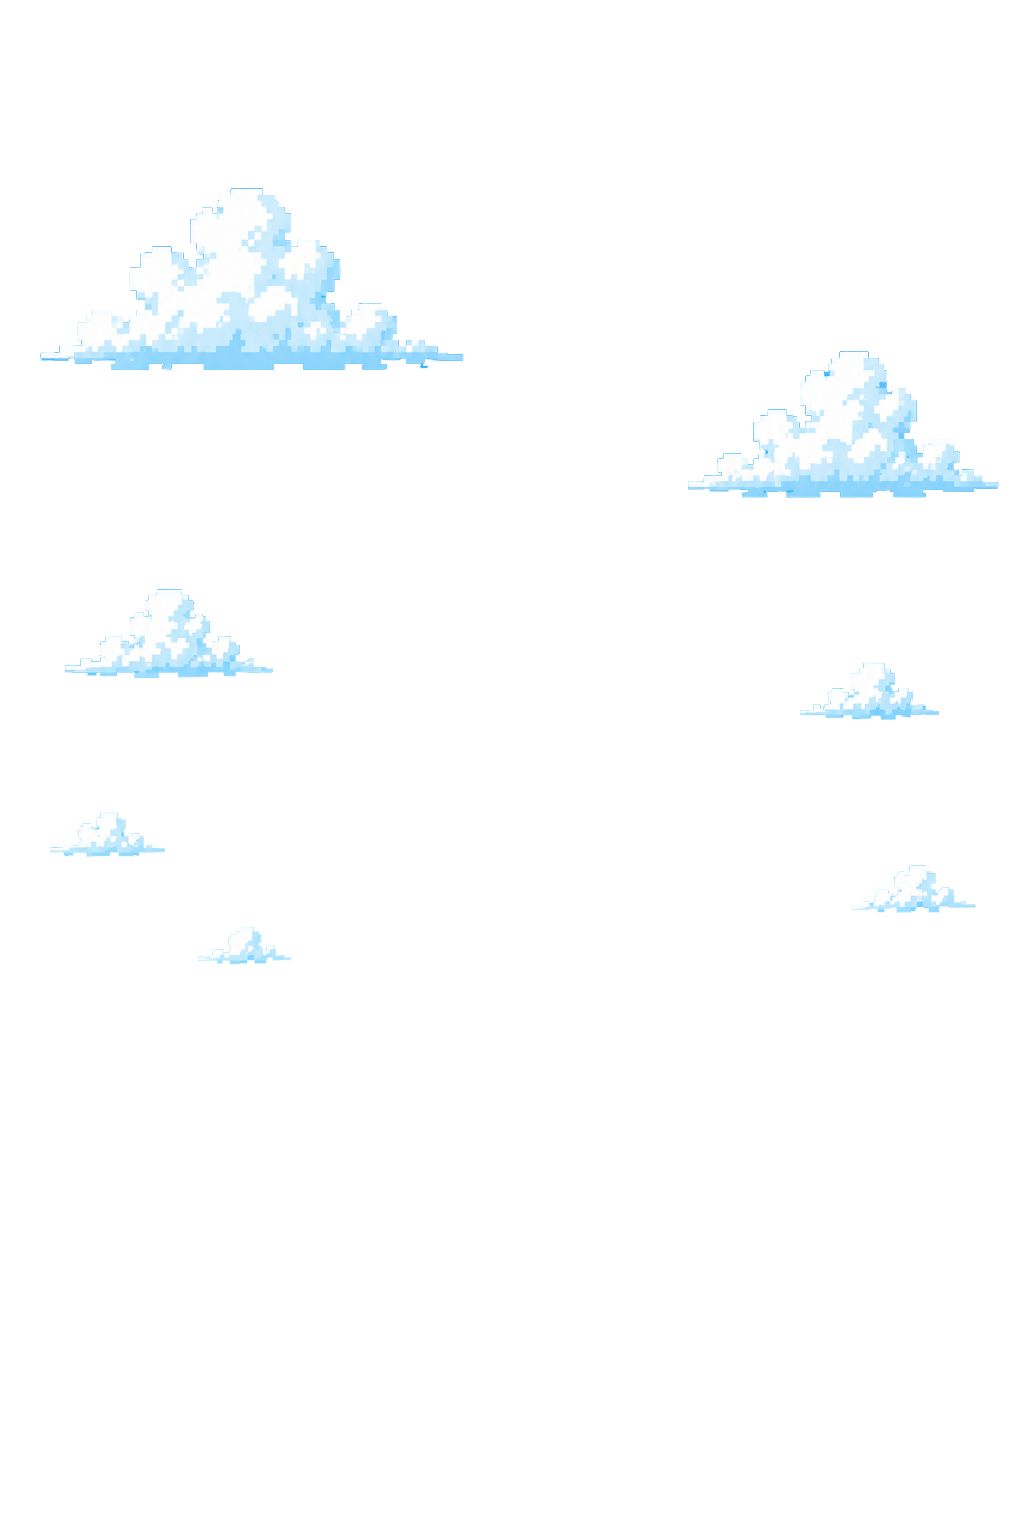
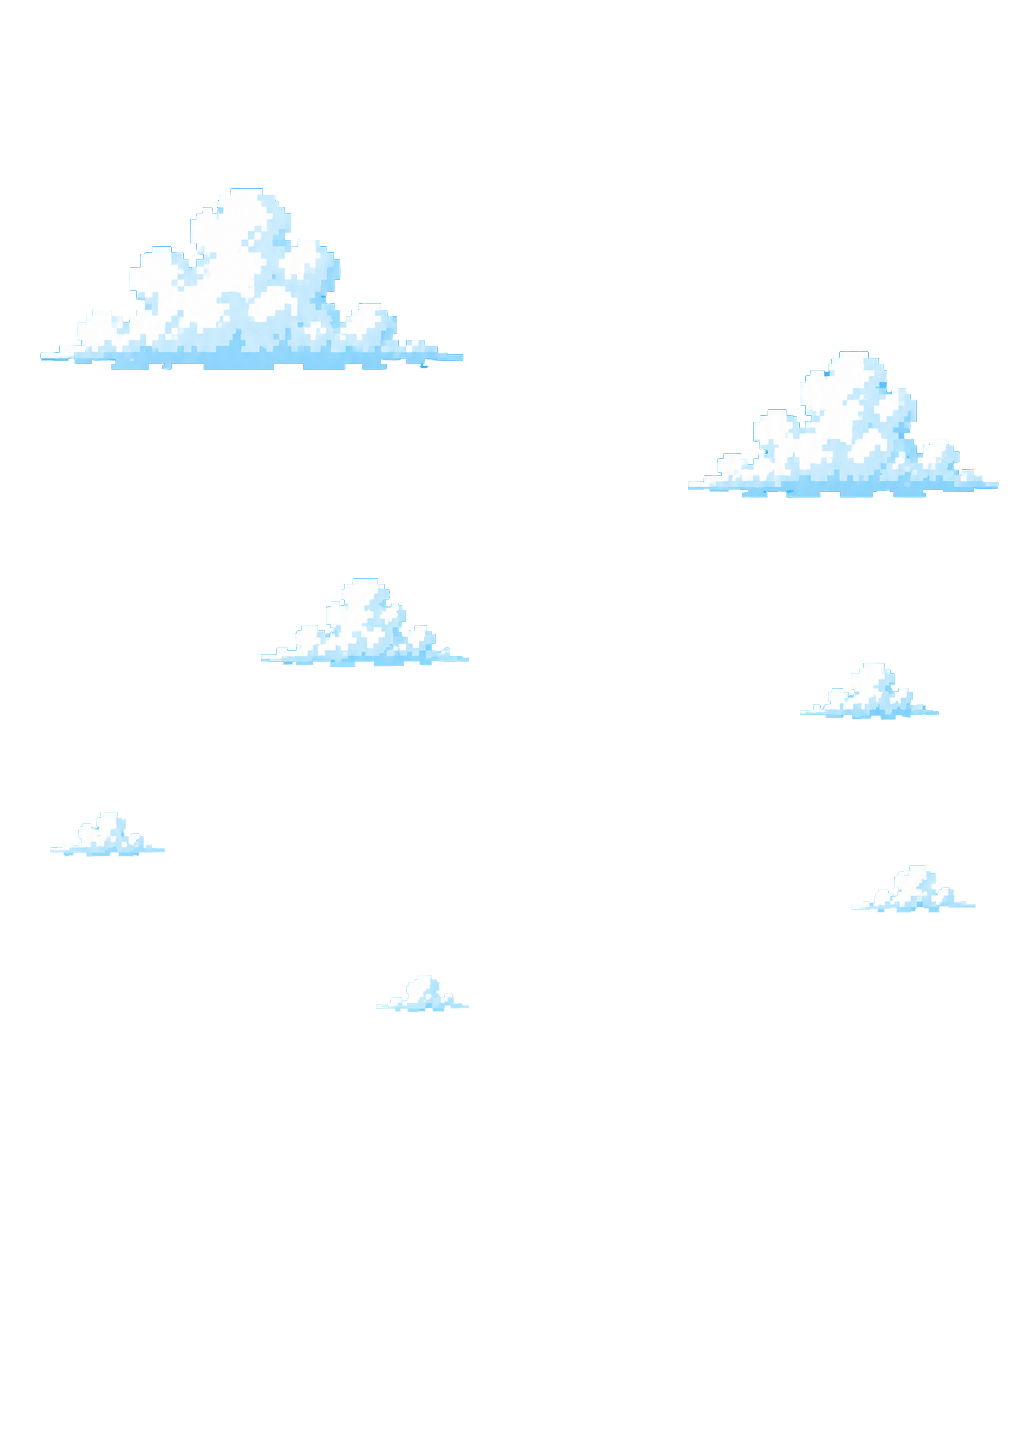
feat: 모바일 구름 이미지 교체 (누끼 버전, 1024x1447)

diff --git a/index.html b/index.html
@@ -11,7 +11,7 @@
   <link rel="stylesheet" href="https://cdn.jsdelivr.net/gh/orioncactus/pretendard@v1.3.9/dist/web/static/pretendard.min.css">
   <link rel="preconnect" href="https://fonts.googleapis.com">
   <link href="https://fonts.googleapis.com/css2?family=Cinzel:wght@400;600;700&display=swap" rel="stylesheet">
-  <link rel="stylesheet" href="style.css?v=180">
+  <link rel="stylesheet" href="style.css?v=181">
   <link rel="stylesheet" href="https://cdn.jsdelivr.net/npm/shepherd.js@11/dist/css/shepherd.css">
 </head>
 <body>